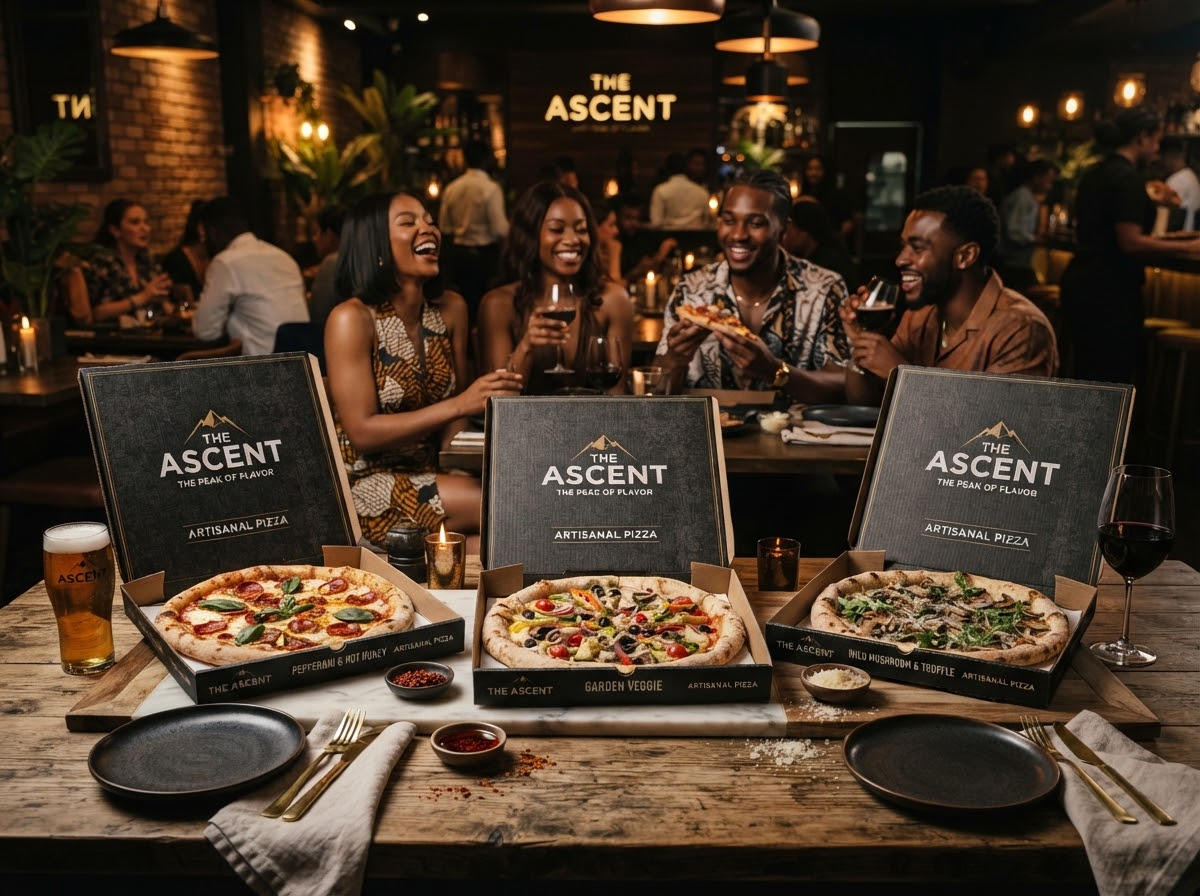
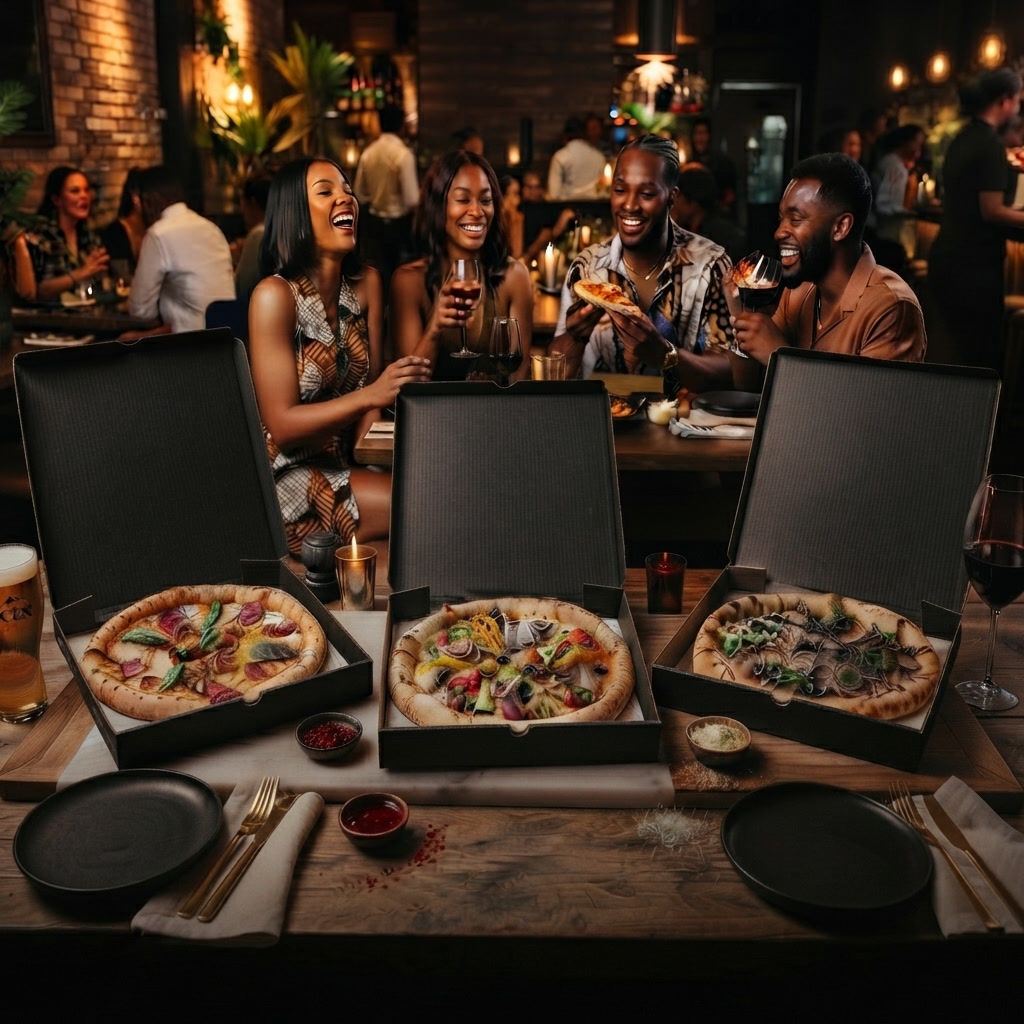
New Ascent photograph, from the owner's Stitch zip
Replaces the image on The Ascent card with the screen from
stitch_gourmet_pizza_ordering_platform (3).zip. It shows three pizzas
in open boxes, which is what the deal literally is -- Three Medium
1-Topping Pizzas -- so the picture now matches the offer rather than
approximating it.

Checked against the crop first: DealCardStandard is a ~400x256 box, so
object-cover discards 184 px from the top and bottom of a square master.
Simulated it -- all three boxes stay fully in frame and only the very
tops of the diners' heads clip, which reads as natural framing rather
than a mistake.

Alt text rewritten for the photograph that is actually there now.

1024x1024, JPEG at -q:v 2 (239 KB against 216 KB). The master it
replaces was 1200x896, so horizontal resolution drops slightly -- still
comfortably above the 400 px card at 2x. PNG archived in
design/stitch-exports/source-images/.

diff --git a/src/content/deals.ts b/src/content/deals.ts
@@ -77,7 +77,10 @@ export const deals: Deal[] = [
     includes: ['3 medium 1-topping pizzas'],
     meta: [],
     image: 'deal-the-ascent',
-    imageAlt: 'Three medium pizzas in Avalanche boxes ready to share',
+    // Owner's Stitch screen, 2026-08-12 — three open boxes, which is exactly
+    // what the deal is. Master archived in design/stitch-exports/source-images/.
+    imageAlt:
+      'Three medium pizzas in open Avalanche boxes on a wooden table, friends laughing over drinks behind them',
     slot: 'triple',
     icon: 'filter_3',
     available: true,
